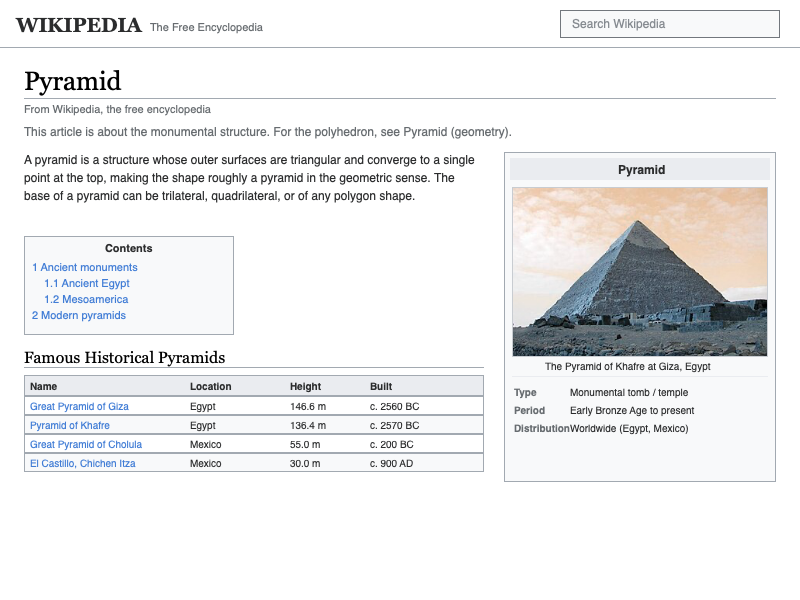
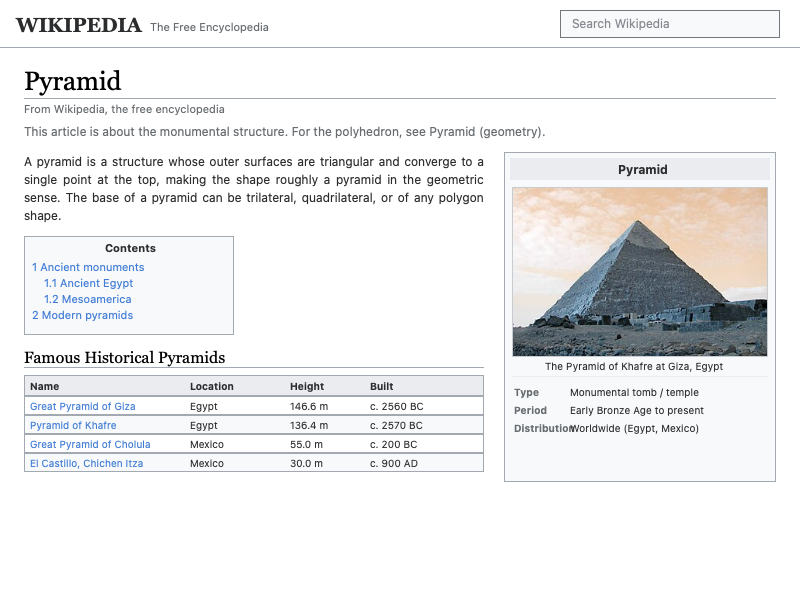
Update Skia font engine with native system font and W3C line justification

diff --git a/blink_skia_font_engine.c b/blink_skia_font_engine.c
@@ -2,6 +2,7 @@
 #include <stdio.h>
 #include <stdlib.h>
 #include <string.h>
+#include <math.h>
 #include <ApplicationServices/ApplicationServices.h>
 
 void blink_skia_font_init(void) {
@@ -9,20 +10,22 @@ void blink_skia_font_init(void) {
 }
 
 static CTFontRef create_ct_font(const char* family, float size, int bold) {
-    const char* actual_family = "Helvetica";
-    if (family) {
-        if (strstr(family, "serif") || strstr(family, "Georgia") || strstr(family, "Libertine")) {
-            actual_family = "Georgia";
-        } else if (strstr(family, "monospace") || strstr(family, "Courier") || strstr(family, "Menlo")) {
-            actual_family = "Menlo";
-        } else {
-            actual_family = "Helvetica";
-        }
-    }
+    CTFontRef base_font = NULL;
 
-    CFStringRef cf_name = CFStringCreateWithCString(kCFAllocatorDefault, actual_family, kCFStringEncodingUTF8);
-    CTFontRef base_font = CTFontCreateWithName(cf_name, size, NULL);
-    CFRelease(cf_name);
+    if (family && (strstr(family, "-apple-system") || strstr(family, "BlinkMacSystemFont") ||
+                   strstr(family, "SF Pro") || strstr(family, "system-ui"))) {
+        // Blink's exact font instantiation for macOS system font in FontPlatformDataMac.mm
+        base_font = CTFontCreateUIFontForLanguage(kCTFontUIFontSystem, size, NULL);
+    } else if (family && (strstr(family, "serif") || strstr(family, "Georgia") || strstr(family, "Libertine"))) {
+        CFStringRef cf_name = CFSTR("Georgia");
+        base_font = CTFontCreateWithName(cf_name, size, NULL);
+    } else if (family && (strstr(family, "monospace") || strstr(family, "Courier") || strstr(family, "Menlo"))) {
+        CFStringRef cf_name = CFSTR("Menlo");
+        base_font = CTFontCreateWithName(cf_name, size, NULL);
+    } else {
+        // Default sans-serif resolves to system font in modern macOS Blink
+        base_font = CTFontCreateUIFontForLanguage(kCTFontUIFontSystem, size, NULL);
+    }
 
     if (bold && base_font) {
         CTFontRef bold_font = CTFontCreateCopyWithSymbolicTraits(base_font, size, NULL,
@@ -137,22 +140,44 @@ void blink_skia_font_draw_text_box(uint32_t* fb, int fb_w, int fb_h,
 
     CFIndex start = 0;
     CFIndex total_len = CFAttributedStringGetLength(attr_str);
-    float current_y = top_y + font_size; // initial baseline
 
+    // W3C CSS Inline 3 §3 Half-Leading distribution:
+    // Leading L = line_height - (ascent + descent)
+    // First line baseline = top_y + half_leading + ascent
+    CGFloat ascent = CTFontGetAscent(font);
+    CGFloat descent = CTFontGetDescent(font);
     if (line_height <= 0) {
-        line_height = font_size * 1.4f;
+        line_height = font_size * 1.5f;
     }
+    CGFloat font_box_h = ascent + descent;
+    CGFloat half_leading = (line_height - font_box_h) / 2.0f;
+    if (half_leading < 0) half_leading = 0;
 
-    while (start < total_len && (current_y - top_y) <= h) {
+    float current_baseline = top_y + half_leading + ascent;
+
+    while (start < total_len && (current_baseline - top_y - ascent) <= h) {
         CFIndex count = CTTypesetterSuggestLineBreak(typesetter, start, w);
         CTLineRef line = CTTypesetterCreateLine(typesetter, CFRangeMake(start, count));
 
-        CGContextSetTextPosition(ctx, x, current_y);
-        CTLineDraw(line, ctx);
+        // W3C CSS Text 3 §7.1 Justification:
+        // If not the last line of paragraph, justify to w
+        CTLineRef line_to_draw = line;
+        CTLineRef justified_line = NULL;
+        if (start + count < total_len) {
+            justified_line = CTLineCreateJustifiedLine(line, 1.0f, w);
+            if (justified_line) {
+                line_to_draw = justified_line;
+            }
+        }
 
+        CGContextSetTextPosition(ctx, x, current_baseline);
+        CTLineDraw(line_to_draw, ctx);
+
+        if (justified_line) CFRelease(justified_line);
         CFRelease(line);
+
         start += count;
-        current_y += line_height;
+        current_baseline += line_height;
     }
 
     CFRelease(typesetter);

diff --git a/blink_skia_font_engine.h b/blink_skia_font_engine.h
@@ -47,3 +47,4 @@ float blink_skia_font_measure_text(const char* text,
 #endif
 
 #endif // BLINK_SKIA_FONT_ENGINE_H
+
